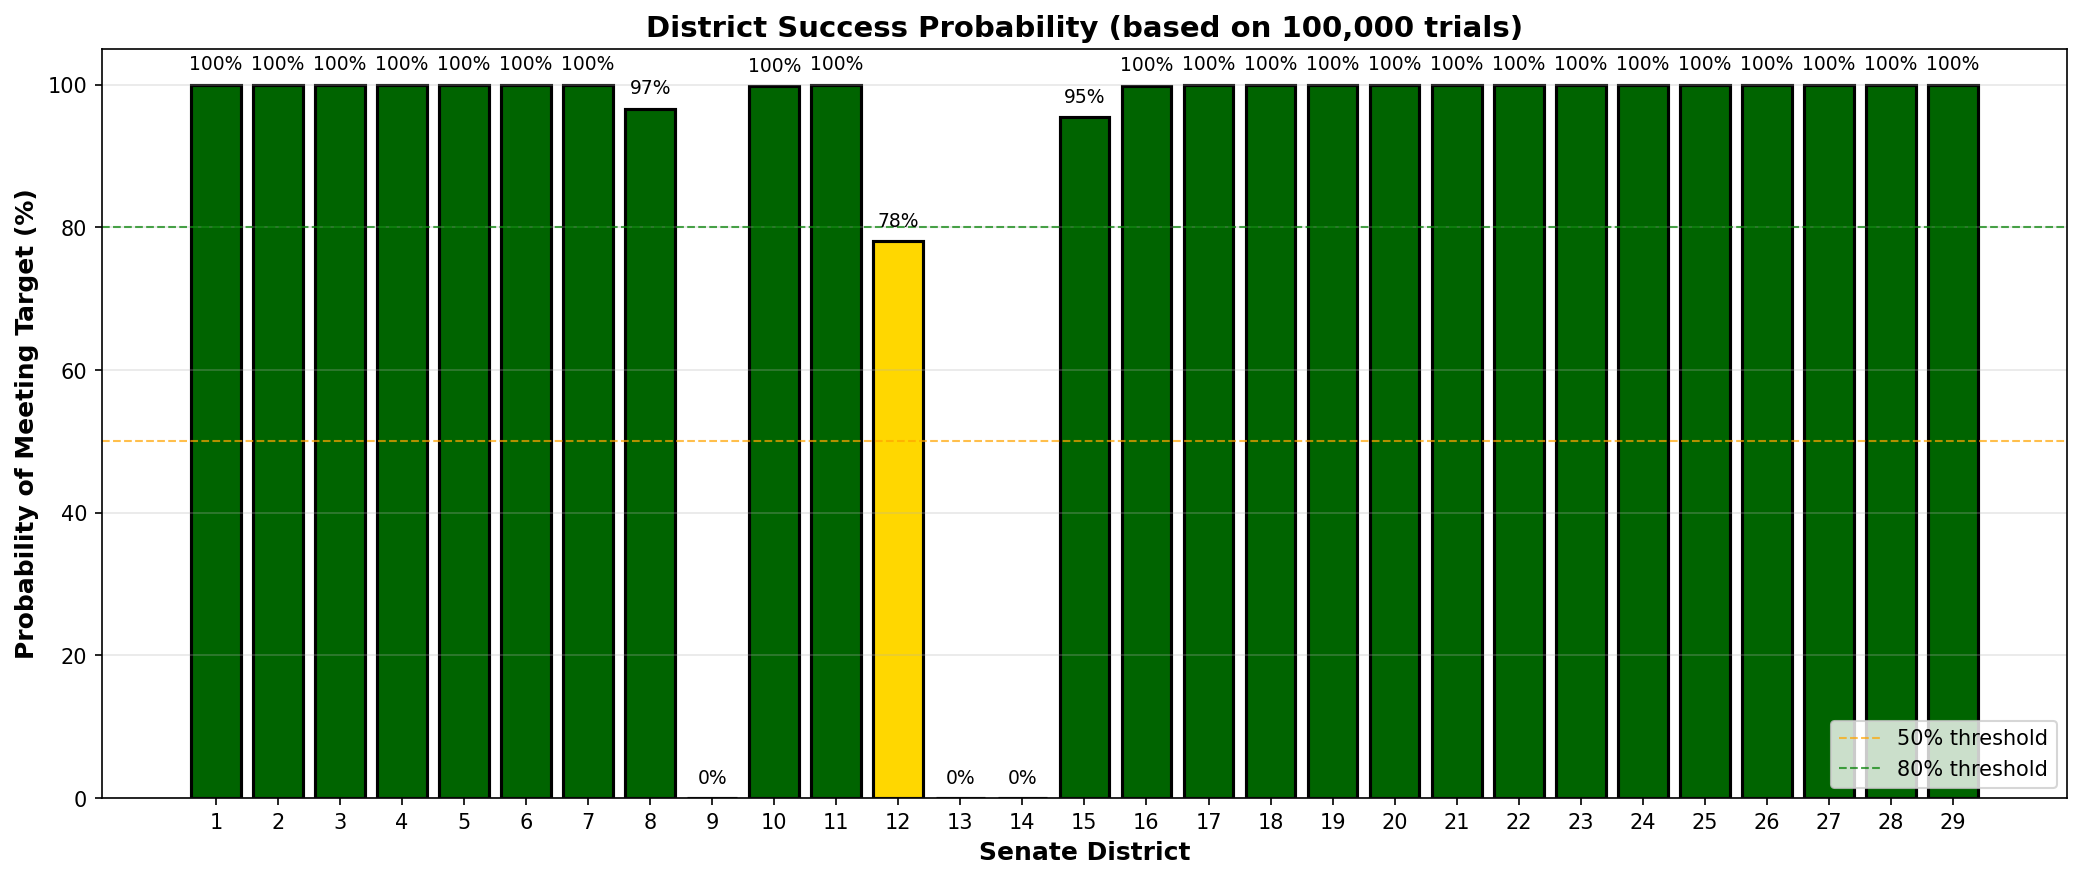
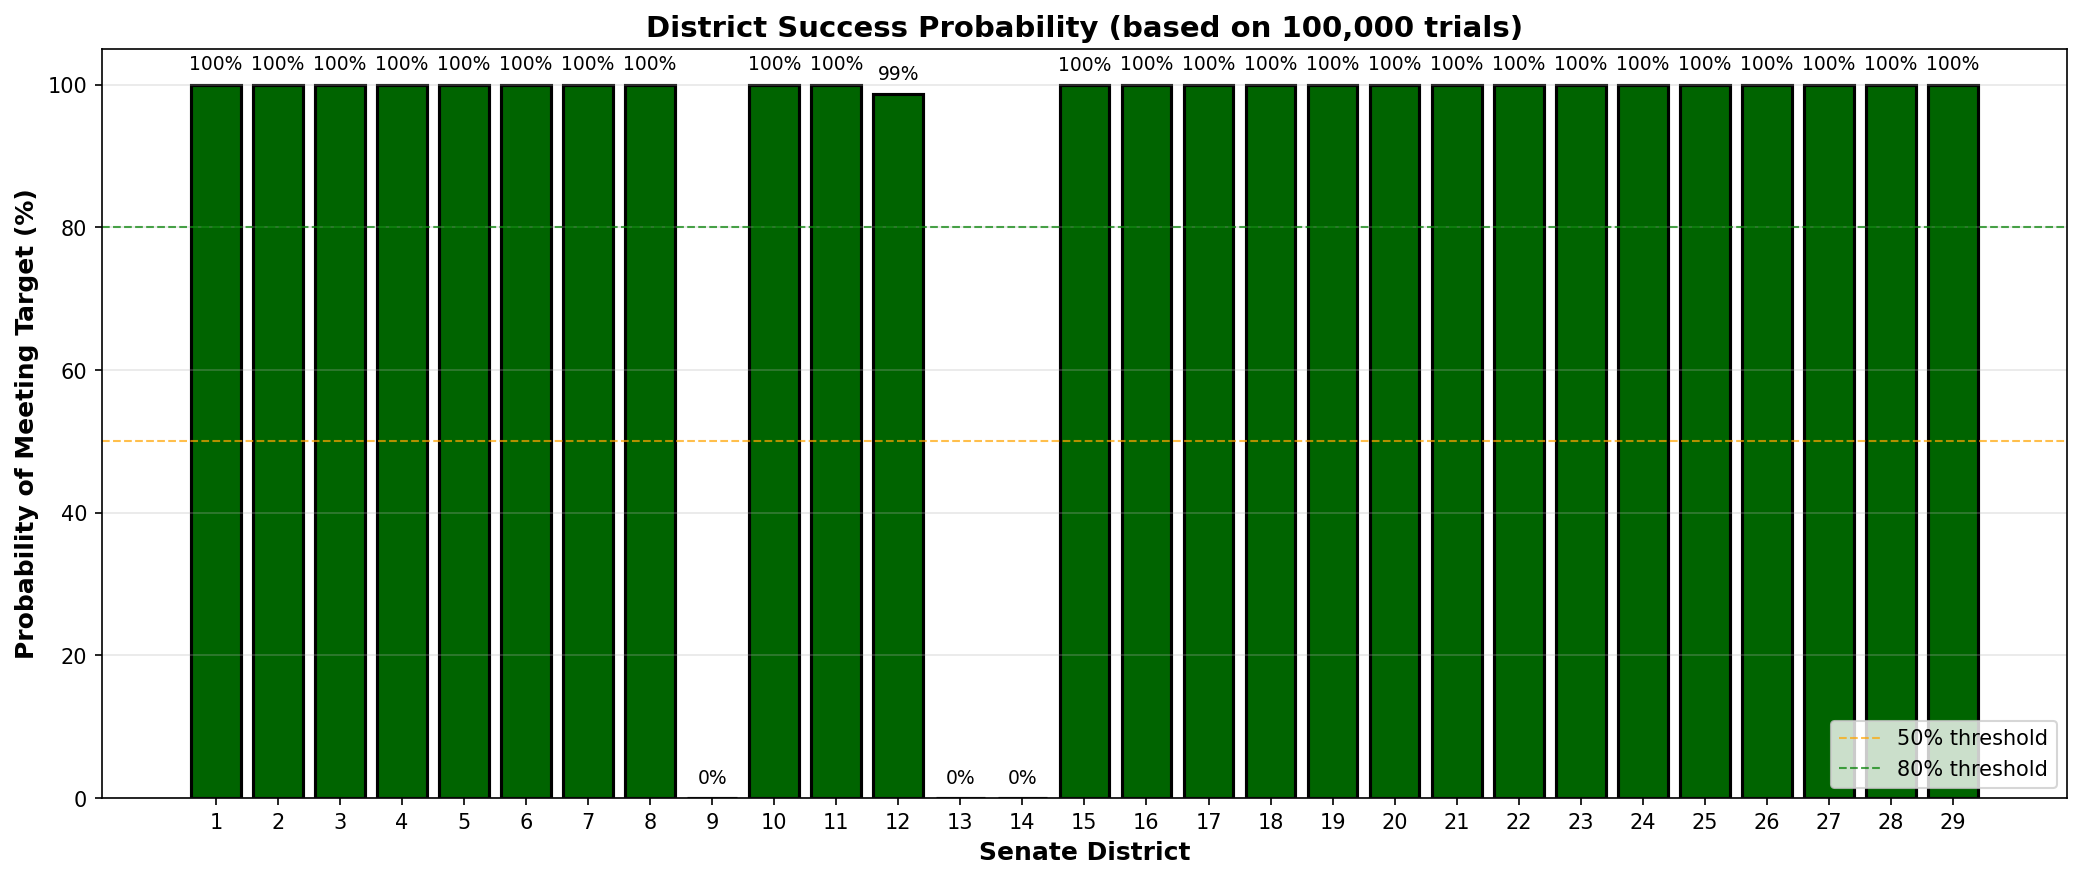
Updated filtering rules

Changed region(s): [[0.3434, 0.0614, 0.4683, 0.9205], [0.4995, 0.0614, 0.562, 0.1534], [0.281, 0.092, 0.3434, 0.1227]]

diff --git a/bootstrap_simulation.py b/bootstrap_simulation.py
@@ -150,7 +150,7 @@ def calculate_filter_thresholds(
     window_days: int = 7
 ) -> dict[str, float]:
     """
-    Calculate filter threshold for each district.
+    Calculate filter threshold for each district using last `window_days` calendar days.
     
     Parameters
     ----------
@@ -159,7 +159,7 @@ def calculate_filter_thresholds(
     quantile : float
         Quantile to use for threshold (default: 0.5 for median)
     window_days : int
-        Number of days to look back (default: 7)
+        Number of calendar days to look back (default: 7)
         
     Returns
     -------
@@ -189,25 +189,42 @@ def calculate_filter_thresholds(
         if len(district_data) == 0:
             thresholds[district] = 0.0
             continue
-        
-        # Get last window_days days with recorded data
-        unique_dates = district_data["To_Date"].unique()
-        unique_dates = sorted(unique_dates)
-        
-        if len(unique_dates) == 0:
+
+        # Work over CALENDAR days, but ignore zero-activity days for the filter.
+        district_data = district_data.copy()
+        district_data["To_Date"] = pd.to_datetime(district_data["To_Date"])
+        if district_data["To_Date"].isnull().all():
             thresholds[district] = 0.0
             continue
-        
-        # Take last window_days unique dates
-        last_dates = unique_dates[-window_days:] if len(unique_dates) >= window_days else unique_dates
-        
-        # Extract Added values from those dates
-        recent_added = district_data[district_data["To_Date"].isin(last_dates)]["Added"].tolist()
-        
-        if len(recent_added) == 0:
+        max_date = district_data["To_Date"].max()
+        min_date = district_data["To_Date"].min()
+        if pd.isnull(max_date) or pd.isnull(min_date):
+            thresholds[district] = 0.0
+            continue
+
+        # Aggregate to per-calendar-day totals for this district
+        per_day_added = (
+            district_data.groupby(district_data["To_Date"].dt.normalize())["Added"]
+            .sum()
+        )
+        date_index = pd.date_range(start=min_date.normalize(), end=max_date.normalize(), freq="D")
+        per_day_added_calendar = per_day_added.reindex(date_index, fill_value=0)
+
+        # Take the last `window_days` CALENDAR days (or all days if fewer exist),
+        # then drop zero-activity days before computing the quantile.
+        if len(per_day_added_calendar) == 0:
+            thresholds[district] = 0.0
+            continue
+        if window_days > len(per_day_added_calendar):
+            window_values = per_day_added_calendar.values
+        else:
+            window_values = per_day_added_calendar.values[-window_days:]
+
+        positive_values = window_values[window_values > 0]
+        if positive_values.size == 0:
             thresholds[district] = 0.0
         else:
-            threshold = np.quantile(recent_added, quantile)
+            threshold = np.quantile(positive_values, quantile)
             thresholds[district] = float(threshold)
     
     return thresholds
@@ -672,11 +689,20 @@ def plot_parameter_summary(
     }).reset_index()
     
     # Calculate diagnostic filter threshold from overall daily totals (if filtered mode)
+    # Use the last `filter_window` calendar days, but ignore zero-activity days
     filter_threshold = None
     if filter_quantile is not None and filter_window is not None:
-        if len(daily_totals) >= filter_window:
-            last_days = daily_totals.tail(filter_window)["Added"].values
-            filter_threshold = float(np.quantile(last_days, filter_quantile))
+        if not daily_totals.empty:
+            last_date = daily_totals["To_Date"].max()
+            date_range = pd.date_range(end=last_date, periods=filter_window)
+            # Reindex to calendar days (to respect calendar windows), then ignore zero days
+            daily_totals_calendar = daily_totals.set_index("To_Date").reindex(date_range, fill_value=0)
+            last_days = daily_totals_calendar["Added"].values
+            positive_days = last_days[last_days > 0]
+            if positive_days.size > 0:
+                filter_threshold = float(np.quantile(positive_days, filter_quantile))
+            else:
+                filter_threshold = 0.0
     
     # Create figure with two panels (upper: additions, lower: removals)
     fig, (ax1, ax2) = plt.subplots(2, 1, figsize=(12, 8), sharex=True)
@@ -901,7 +927,7 @@ def main() -> int:
     
     # Histogram 1: Statewide totals
     statewide_path = output_dir / f"{mode_label}_statewide_histogram.{args.format}"
-    # Calculate bins that are always 5000 wide
+    # Calculate bins that are always a particular width 
     min_val = min(statewide_totals) if statewide_totals else 0
     max_val = max(statewide_totals) if statewide_totals else 0
     BIN_WIDTH = 1000
